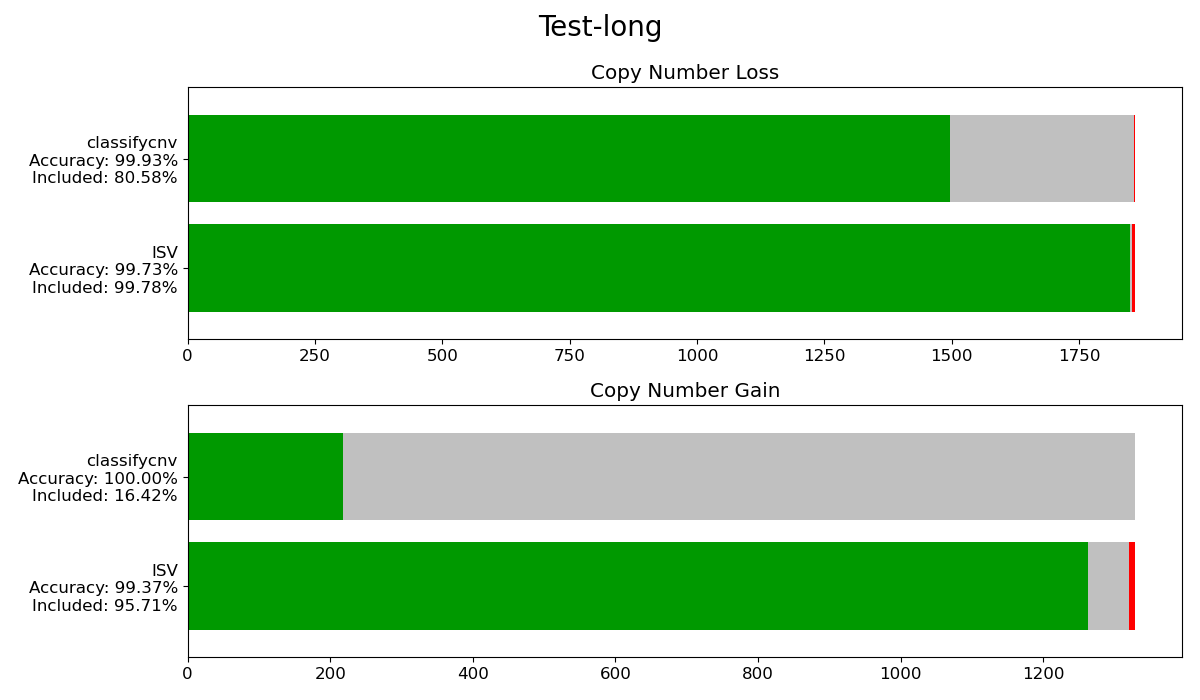
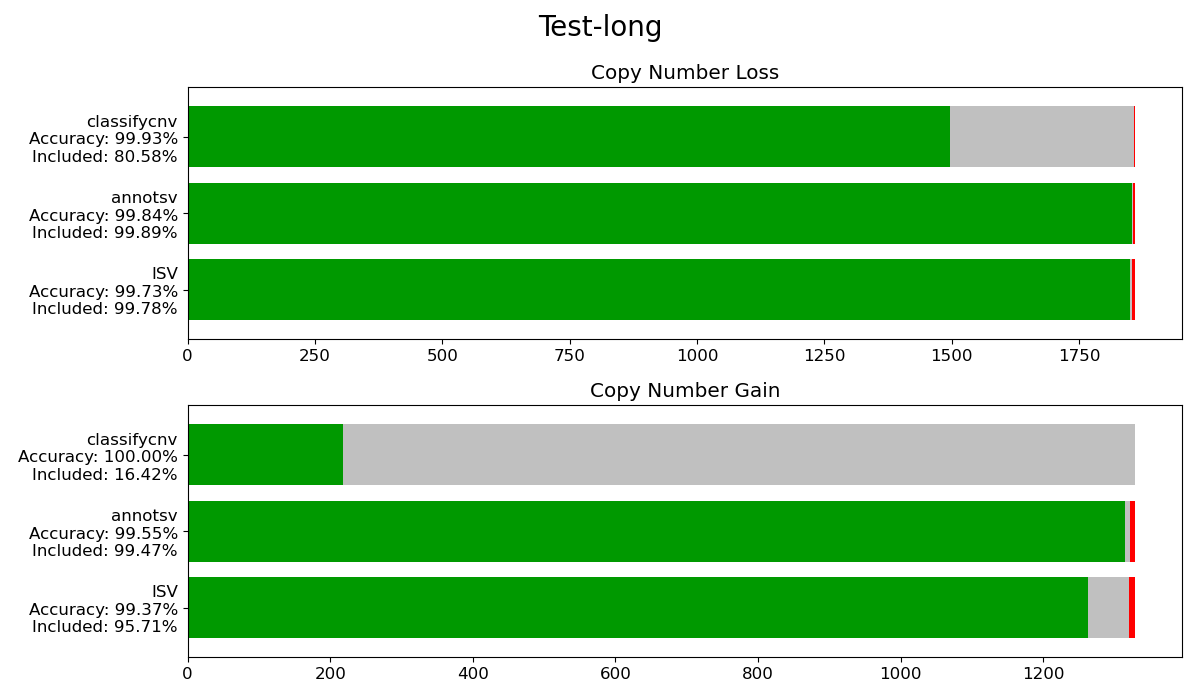
add annotsv to bar comparisons

diff --git a/scripts/plots/bar_update.py b/scripts/plots/bar_update.py
@@ -47,7 +47,24 @@ def bar_update_results(results, model_path, data_path, threshold=0.5, train_data
     results['incorrect'].append(i)
     
     return results
+
+
+# %%
+def acmg_severity(score):
+    """https://www.nature.com/articles/s41436-019-0686-8"""
     
+    if score >= 0.99:
+        return 'Pathogenic'
+    elif score >= 0.9:
+        return 'Likely pathogenic'
+    elif score >= -0.89:
+        return 'Uncertain significance'
+    elif score > -0.99:
+        return 'Likely benign'
+    else:
+        return 'Benign'
+
+
 # %%
 def bar_update_results_acmg(results, filepath, likely_is_uncertain=True, return_dataframes=False):
     acmg = pd.read_csv(filepath, sep='\t')
@@ -81,6 +98,18 @@ def bar_update_results_acmg(results, filepath, likely_is_uncertain=True, return_
         
         severity = acmg.Classification
     
+    elif clf == 'annotsv':
+        inds = np.empty(len(df))
+        for i in range(len(df)):
+            c, s, e = df.iloc[i].loc[['chr', 'start_hg38', 'end_hg38']]
+            inds[i] = np.where((acmg.SV_chrom == c) & (acmg.SV_start == s) & (acmg.SV_end == e))[0][0]
+        
+        acmg = acmg.iloc[inds]
+        acmg = acmg.reset_index(drop=True)
+        
+        acmg['severity'] = [acmg_severity(i) for i in acmg.AnnotSV_ranking_score]
+        severity = acmg.severity
+        
     if likely_is_uncertain:
         severity = severity.replace({'Likely pathogenic': 'Uncertain significance',
                                      'Likely benign': 'Uncertain significance'})

diff --git a/scripts/plots/results_isv_acmg_comparison.py b/scripts/plots/results_isv_acmg_comparison.py
@@ -27,6 +27,7 @@ rcParams.update({'font.size': 12})
 
 # %%
 dataset = snakemake.wildcards.dataset    
+# dataset = 'validation'
 
 fig, ax = plt.subplots(2, 1, figsize=(12, 7))
 
@@ -35,7 +36,10 @@ for i, cnv_type in enumerate(['loss', 'gain']):
     
     # ClassifyCNV
     results = bar_update_results_acmg(results, f'data/classifycnv/classifycnv_{dataset}_{cnv_type}.tsv', likely_is_uncertain=True)
-
+    
+    # AnnotSV
+    results = bar_update_results_acmg(results, f'data/annotsv/annotsv_{dataset}_{cnv_type}.tsv', likely_is_uncertain=True)
+    
     # MarCNV
     # results = bar_update_results_acmg(results, f'data/marcnv/MarCNV_{dataset}_{cnv_type}.tsv', likely_is_uncertain=True)
     
